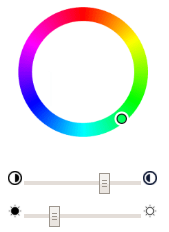
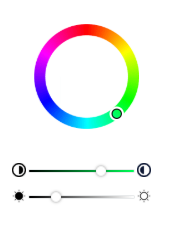
拖动栏增加颜色渐变

diff --git a/src/components/colorcircle.vue b/src/components/colorcircle.vue
@@ -26,14 +26,12 @@ export default {
       e: undefined,
       whell: undefined,
       marker: undefined,
-      radius: 60,
-      square: 60,
-      width: 130,
+      radius: 47,
+      width: 105,
       color: undefined,
       hsl: [],
-      rgb: undefined,
       dragging: false,
-      sat: 100,
+      sat: 50,
       lum: 50
     }
   },
@@ -47,75 +45,8 @@ export default {
     this.wheel.style.width = this.width + 'px'
     this.wheel.style.height = this.width + 'px'
 
-    // $._farbtastic = (container, callback) => {
-      // Store farbtastic object
-      // let fb = this
-
-      // let e = $('.farbtastic', container)
-      // fb.wheel = $('.wheel', container).get(0)
-      // Dimensions
-      // fb.radius = 60
-      // fb.square = 60
-      // fb.width = 120
-
-      /**
-       * Link to the given element(s) or callback.
-       */
-      // fb.linkTo = callback => {
-      //   // Unbind previous nodes
-      //   if (typeof fb.callback == 'object') {
-      //     $(fb.callback).unbind('keyup', fb.updateValue)
-      //   }
-
-      //   // Reset color
-      //   fb.color = null
-
-      //   // Bind callback or elements
-      //   if (typeof callback == 'function') {
-      //     fb.callback = callback
-      //   } else if (typeof callback == 'object' || typeof callback == 'string') {
-      //     fb.callback = $(callback)
-      //     fb.callback.bind('keyup', fb.updateValue)
-      //     if (fb.callback.get(0).value) {
-      //       fb.setColor(fb.callback.get(0).value)
-      //     }
-      //   }
-      //   return this
-      // }
-      // fb.updateValue = event => {
-      //   if (this.value && this.value != fb.color) {
-      //     fb.setColor(this.value)
-      //   }
-      // }
-
-
-
-
-
-      // Install mousedown handler (the others are set on the document on-demand)
-      // $('*', e).mousedown(fb.mousedown)
-
-      // Init color
-    //   fb.setColor('#fff')
-
-    //   // Set linked elements/callback
-    //   if (callback) {
-    //     fb.linkTo(callback)
-    //   }
-    // }
-
-    // $.fn.farbtastic = function(callback) {
-    //   $.farbtastic(this, callback)
-    //   return this
-    // }
-    // $.farbtastic = function(container, callback) {
-    //   var container = $(container).get(0);
-    //   return container.farbtastic || (container.farbtastic = new $._farbtastic(container, callback));
-    // }
-    // $(this.$el).farbtastic()
     this.e.addEventListener('mousedown', this.mousedown)
     this.setColor('#126930')
-    // $('*', e).mousedown(fb.mousedown)
   },
   watch: {
     sat() {
@@ -210,54 +141,12 @@ export default {
         // let el = event.target || event.srcElement
         let reference = this.wheel
 
-        // if (false && typeof event.offsetX != 'undefined') {
-        //   // Use offset coordinates and find common offsetParent
-        //   let pos = { x: event.offsetX, y: event.offsetY }
+        let pos = this.absolutePosition(reference)
+        x =
+          (event.pageX || 0 * (event.clientX + document.body.scrollLeft)) - pos.x
+        y =
+          (event.pageY || 0 * (event.clientY + document.body.scrollTop)) - pos.y
 
-        //   // Send the coordinates upwards through the offsetParent chain.
-        //   this.e = el
-        //   while (this.e) {
-        //     console.log('this.e1', this.e)
-        //     this.e.mouseX = pos.x
-        //     this.e.mouseY = pos.y
-        //     pos.x += this.e.offsetLeft
-        //     pos.y += this.e.offsetTop
-        //     this.e = this.e.offsetParent
-        //   }
-
-        //   // Look for the coordinates starting from the wheel widget.
-        //   this.e = reference
-        //   let offset = { x: 0, y: 0 }
-        //   while (this.e) {
-        //     console.log('this.e2', this.e)
-        //     if (typeof this.e.mouseX != 'undefined') {
-        //       x = this.e.mouseX - offset.x
-        //       y = this.e.mouseY - offset.y
-        //       break
-        //     }
-        //     offset.x += this.e.offsetLeft
-        //     offset.y += this.e.offsetTop
-        //     this.e = this.e.offsetParent
-        //   }
-
-        //   // Reset stored coordinates
-        //   this.e = el
-        //   while (this.e) {
-        //     console.log('this.e3', this.e)
-        //     this.e.mouseX = undefined
-        //     this.e.mouseY = undefined
-        //     this.e = this.e.offsetParent
-        //   }
-        // } else {
-          // Use absolute coordinates
-          let pos = this.absolutePosition(reference)
-          x =
-            (event.pageX || 0 * (event.clientX + document.body.scrollLeft)) - pos.x
-          y =
-            (event.pageY || 0 * (event.clientY + document.body.scrollTop)) - pos.y
-        // }
-        // Subtract distance to middle
-        // console.log('widgetCoords.return', { x: x - this.width / 2, y: y - this.width / 2 })
         return { x: x - this.width / 2, y: y - this.width / 2 }
       },
       /**
@@ -268,6 +157,7 @@ export default {
         let angle = this.hsl[0] * 6.28
         this.marker.style.left = Math.round(Math.sin(angle) * this.radius + this.width / 2) + 'px'
         this.marker.style.top = Math.round(-Math.cos(angle) * this.radius + this.width / 2) + 'px'
+        this.$el.querySelectorAll('input')[0].style.background = 'linear-gradient(to right, #000, ' + this.pack(this.HSLToRGB([this.hsl[0], 1, 0.5])) + ' 100%, white)'
 
         this.$emit('change', this.color)
       },
@@ -403,10 +293,6 @@ export default {
     z-index: 1000;
   }
 }
-// .farbtastic* {
-  // position: absolute;
-  // cursor: crosshair;
-// }
 
 ul {
   width: 100%;
@@ -414,13 +300,29 @@ ul {
   & > li {
     margin-top: 8px;
     overflow: hidden;
-    & > img {
+    > img {
       float: left;
-	    width: 14px;
+      width: 14px;
     }
-    & > input[type='range'] {
-      width: 78%;
+    > input[type='range'] {
       float: left;
+      -webkit-appearance: none;
+      width: 105px;
+      margin-top: 6px;
+      background: linear-gradient(to right, #000, white 100%, white);
+      height: 2px;
+      border: 1px solid #E8EAEB;
+      border-radius: 10px;
+      &::-webkit-slider-thumb {
+        -webkit-appearance: none;
+        height: 10px;
+        width: 10px;
+        margin-top: 0;
+        border-radius: 50%;
+        background-color: #FFF;
+        border: solid 1px #F3F3F3;
+        box-shadow: 0 0 4px rgb(104, 104, 104);
+      }
     }
   }
 }

diff --git a/src/App.vue b/src/App.vue
@@ -1,6 +1,6 @@
 <template>
   <div id="app">
-    <div><Colorcircle @change="handelChange"/></div>
+    <div style="text-align:-webkit-center"><Colorcircle @change="handelChange"/></div>
     <div class="tips" v-text="tips"></div>
   </div>
 </template>
@@ -10,7 +10,7 @@ import Colorcircle from './components/colorcircle'
 
 export default {
   name: 'app',
-  data(){
+  data() {
     return {
       tips: '',
       myId: ''
@@ -19,11 +19,11 @@ export default {
   components: {
     Colorcircle
   },
-  methods:{
-    handelChange(str){
+  methods: {
+    handelChange(str) {
+      // console.log(str)
       this.tips = str
       this.$el.querySelector('.tips').style.backgroundColor = str
-      console.log(str)
     }
   }
 }
